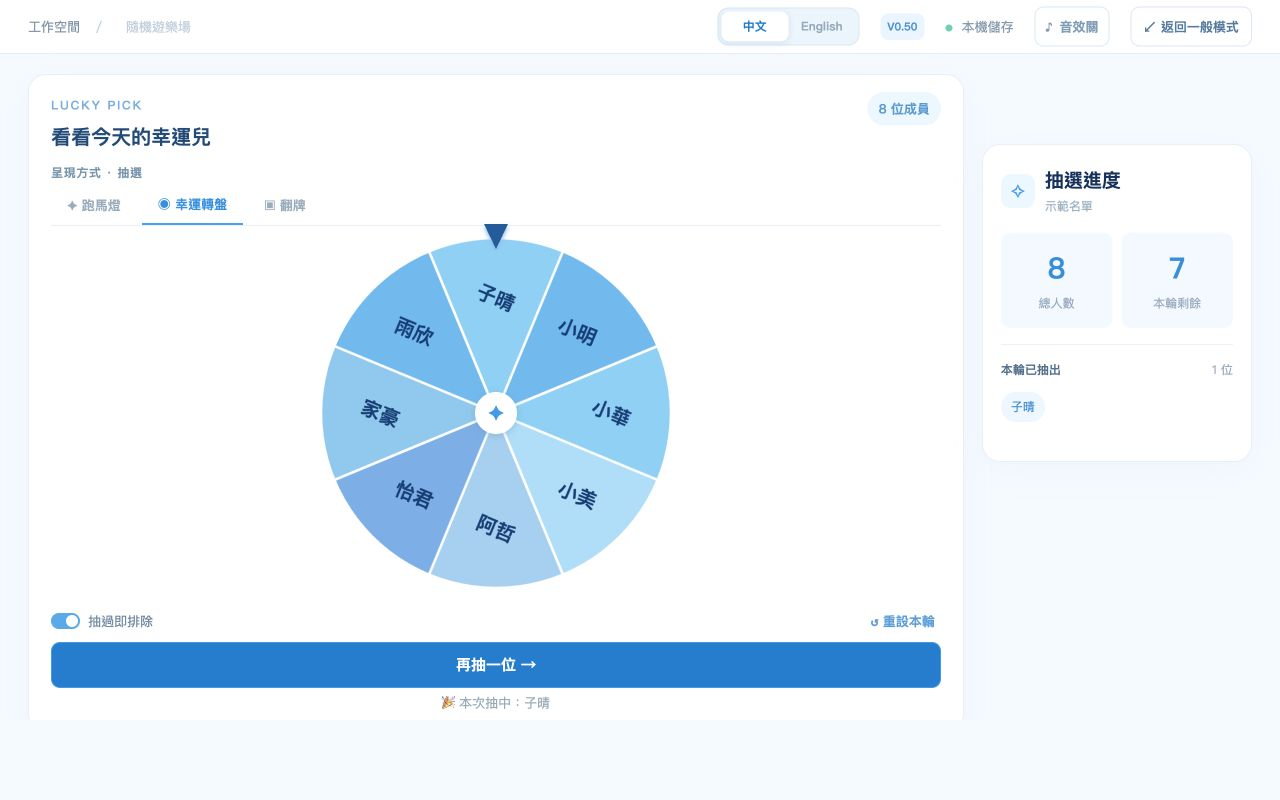
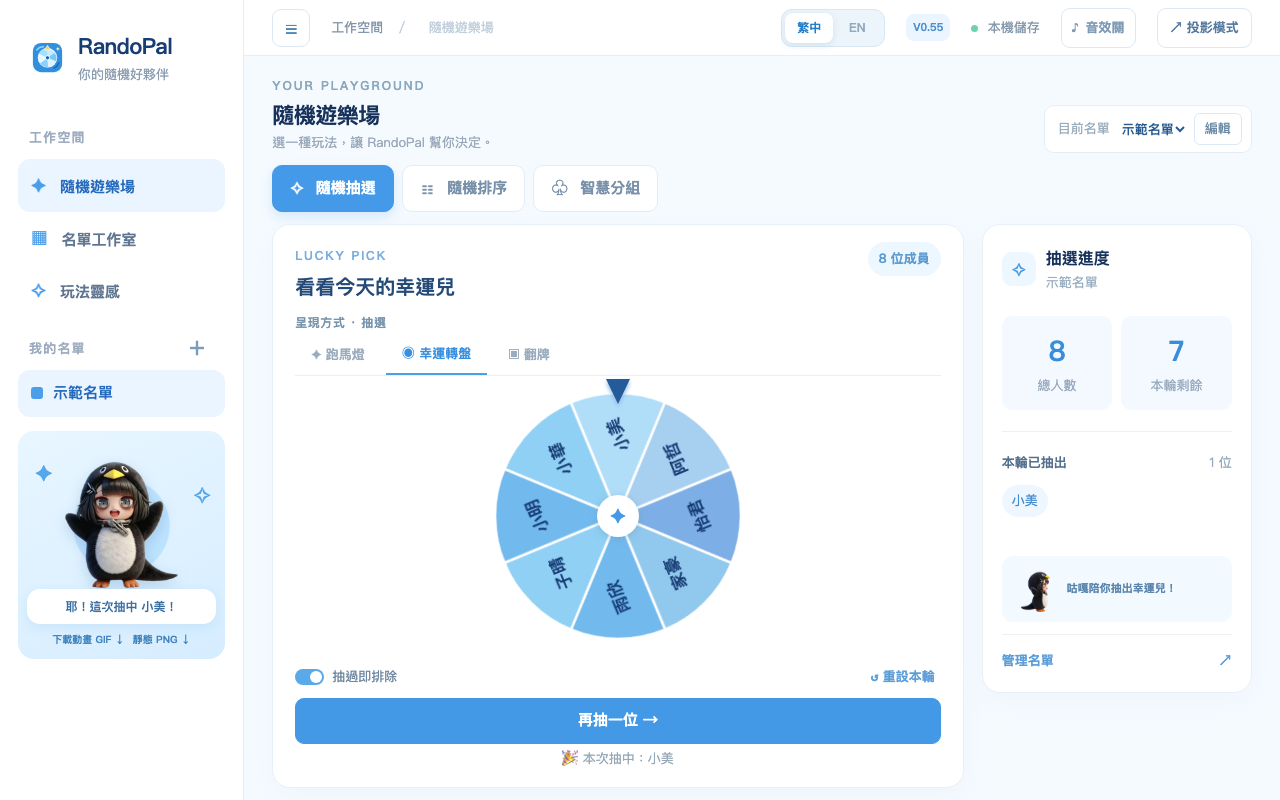
Refresh V0.55 Chrome Web Store screenshots

diff --git a/release/v0.55/chrome/STORE-LISTING.md b/release/v0.55/chrome/STORE-LISTING.md
@@ -1,6 +1,6 @@
 # RandoPal · Chrome Web Store 上架文案與素材（V0.55）
 
-在開發人員後台上傳 `RandoPal-chrome-v0.55.zip` 後，依下列欄位填寫。「中文（繁體）」與 English 可在商店資訊頁上方的語言選單分別編輯；ZIP 已包含 `_locales/zh_TW` 與 `_locales/en`。App 內可用「繁中 / EN」切換語言。商店截圖由 V0.50 素材沿用，正式送審前請重新擷取 V0.55 畫面。
+在開發人員後台上傳 `RandoPal-chrome-v0.55.zip` 後，依下列欄位填寫。「中文（繁體）」與 English 可在商店資訊頁上方的語言選單分別編輯；ZIP 已包含 `_locales/zh_TW` 與 `_locales/en`。App 內可用「繁中 / EN」切換語言。下列三張商店截圖已於 V0.55 使用乾淨的示範名單重新擷取，尺寸皆為 1280 × 800。
 
 ## 商店欄位
 
@@ -17,6 +17,8 @@
 | 大型宣傳圖（選填） | `store-assets/promo-marquee-1400x560.png` |
 
 宣傳圖無法依語言分別上傳，因此採用中性的英文品牌字樣；截圖則可以依語言上傳。商店截圖使用示範名單，不含使用者的私人資料。
+
+日後更新畫面時，可在專案根目錄執行 `node scripts/capture-store-screenshots.mjs`，用本機 Chrome 從示範名單重新產生這三張截圖。
 
 ## 簡短說明／Summary
 
